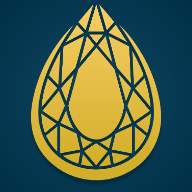
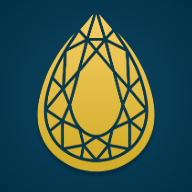
Menú superior e inferior respetan la isla y la barra del iPhone; nuevo ícono de la app
Claude-Session: https://claude.ai/code/session_01B2davTScH8ahkpaCUA7hKy

Changed region(s): [[0.1562, 0.0312, 0.8438, 0.9375]]

diff --git a/public/app.js b/public/app.js
@@ -442,7 +442,7 @@
       '<button type="button" class="icon-btn" data-act="openLang" aria-label="' + T.changeLang + '">' + svg(ICON.globe, { sw: 1.7 }) + '</button>' +
       '<img src="img/wordmark.svg" alt="Lazurde" style="height:26px;width:auto">' +
       '<button type="button" class="icon-btn" aria-label="' + T.waAria + '">' + svg(ICON.chatDots, { sw: 1.7 }) + '</button></header>';
-    h += '<main style="padding-top:60px;padding-bottom:190px">';
+    h += '<main style="padding-top:calc(60px + env(safe-area-inset-top));padding-bottom:calc(190px + env(safe-area-inset-bottom))">';
     // Galería
     h += '<div id="lz-top" style="position:relative;height:280px;background:' + GAL_BG[gi] + ';display:flex;align-items:center;justify-content:center">' +
       '<span style="position:absolute;inset-inline-start:16px;top:14px;font-size:12px;font-weight:700;letter-spacing:.08em;text-transform:uppercase;color:#fff">' + T.gal[gi] + '</span>' +
@@ -498,7 +498,7 @@
       '<h3 style="margin-top:8px;font-size:16px;font-weight:800">' + T.terms + '</h3>' + tplTerms(T) + '</section>';
     h += '<div class="muted" style="padding:22px 18px;text-align:center;font-size:12px">' + T.footer + '</div></main>';
     // Barra de reservar + navegación
-    h += '<div class="fixed-bottom" style="padding:0 12px 14px">' +
+    h += '<div class="fixed-bottom" style="padding:0 12px calc(14px + env(safe-area-inset-bottom))">' +
       '<div style="background:#fff;border:1px solid #E3E8EE;border-radius:18px;padding:10px;padding-inline-start:16px;display:flex;align-items:center;justify-content:space-between;gap:12px;box-shadow:0 10px 30px rgba(11,46,79,.14);margin-bottom:10px">' +
       '<div style="display:flex;flex-direction:column;gap:1px"><span class="muted" style="font-size:12px">' + T.from + '</span><span style="font-size:18px;font-weight:800">' + c.whole(incl(CONFIG.weekdayPrice)) + ' <span class="muted" style="font-size:13px;font-weight:600">' + T.perNight + '</span></span><span class="muted" style="font-size:11px">' + T.baseInfo + '</span></div>' +
       '<button type="button" class="btn-primary" data-act="goBook" style="height:50px;padding:0 26px">' + T.bookNow + '</button></div>' +
@@ -524,7 +524,7 @@
     h += '<header class="fixed-top" style="height:60px;background:#fff;border-bottom:1px solid #E3E8EE;display:flex;align-items:center;gap:8px;padding:0 10px">' +
       '<button type="button" class="icon-btn" data-act="goHome" aria-label="' + T.back + '" style="border:0">' + svg(c.rtl ? ICON.backR : ICON.backL, { sw: 2 }) + '</button>' +
       '<span style="font-size:17px;font-weight:800">' + T.confirmTitle + '</span></header>';
-    h += '<main style="padding-top:60px;padding-bottom:140px">';
+    h += '<main style="padding-top:calc(60px + env(safe-area-inset-top));padding-bottom:calc(140px + env(safe-area-inset-bottom))">';
     h += '<div style="background:#fff;padding:14px 18px;display:flex;align-items:center;gap:14px"><span style="width:64px;height:64px;border-radius:14px;background:linear-gradient(160deg,#0B2E4F,#1F6FB2);flex:none;display:flex;align-items:center;justify-content:center"><img src="img/stone.svg" alt="" style="width:30px;height:auto"></span>' +
       '<div style="display:flex;flex-direction:column;gap:2px"><strong style="font-size:17px">' + T.resortName + '</strong><span class="muted" style="font-size:13px">' + T.summarySub + '</span></div></div>';
     // Fechas
@@ -590,7 +590,7 @@
     h += '<div class="gap8"></div><section class="card" style="padding:18px;display:flex;flex-direction:column;gap:12px"><h2 style="font-size:18px;font-weight:800">' + T.terms + '</h2>' + tplTerms(T) +
       '<label for="lz-terms" style="display:flex;gap:12px;align-items:flex-start;cursor:pointer;padding:6px 0"><input id="lz-terms" type="checkbox" data-act="termsOk"' + (state.termsOk ? ' checked' : '') + ' style="width:24px;height:24px;margin:0;flex:none;accent-color:#0F4C81">' +
       '<span style="font-size:14px;line-height:1.5">' + T.accept + '</span></label></section></main>';
-    h += '<div id="lz-bar" class="fixed-bottom" style="background:#fff;border-top:1px solid #E3E8EE;padding:10px 16px 18px">' + tplBar(c) + '</div>';
+    h += '<div id="lz-bar" class="fixed-bottom" style="background:#fff;border-top:1px solid #E3E8EE;padding:10px 16px calc(18px + env(safe-area-inset-bottom))">' + tplBar(c) + '</div>';
     return h;
   }
   function bedRow(icon, title, sub, actMinus, actPlus, ariaMinus, ariaPlus, disMinus, disPlus, val) {

diff --git a/public/styles.css b/public/styles.css
@@ -28,8 +28,10 @@ h1,h2,h3,p{margin:0}
 .shell{max-width:520px;margin:0 auto;min-height:100vh;background:var(--bg);position:relative;box-shadow:0 0 40px rgba(11,46,79,.08)}
 .fixed-top,.fixed-bottom{position:fixed;left:50%;transform:translateX(-50%);width:min(100%,520px);z-index:20}
 .fixed-top{top:0}
+/* iPhone con isla o notch: el menú baja para quedar debajo de la hora y la batería */
+.fixed-top{height:calc(60px + env(safe-area-inset-top)) !important;padding-top:env(safe-area-inset-top) !important}
 .fixed-bottom{bottom:0}
-section,[id]{scroll-margin-top:72px}
+section,[id]{scroll-margin-top:calc(72px + env(safe-area-inset-top))}
 
 /* Pantalla de carga */
 .splash{position:fixed;inset:0;background:radial-gradient(circle at 50% 50%,#104862 0%,#003047 100%);display:flex;flex-direction:column;align-items:center;justify-content:center;gap:26px;z-index:100;cursor:pointer;transition:opacity .4s ease}

diff --git a/public/index.html b/public/index.html
@@ -7,7 +7,7 @@
 <meta name="description" content="Lazurde Resort · Omán · Reserva el resort completo para tu familia o grupo.">
 <meta name="theme-color" content="#003047">
 <link rel="icon" href="img/stone.svg" type="image/svg+xml">
-<link rel="apple-touch-icon" href="img/apple-touch-icon.png">
+<link rel="apple-touch-icon" href="img/apple-touch-icon-v2.png">
 <link rel="manifest" href="manifest.webmanifest">
 <meta name="apple-mobile-web-app-capable" content="yes">
 <meta name="mobile-web-app-capable" content="yes">
